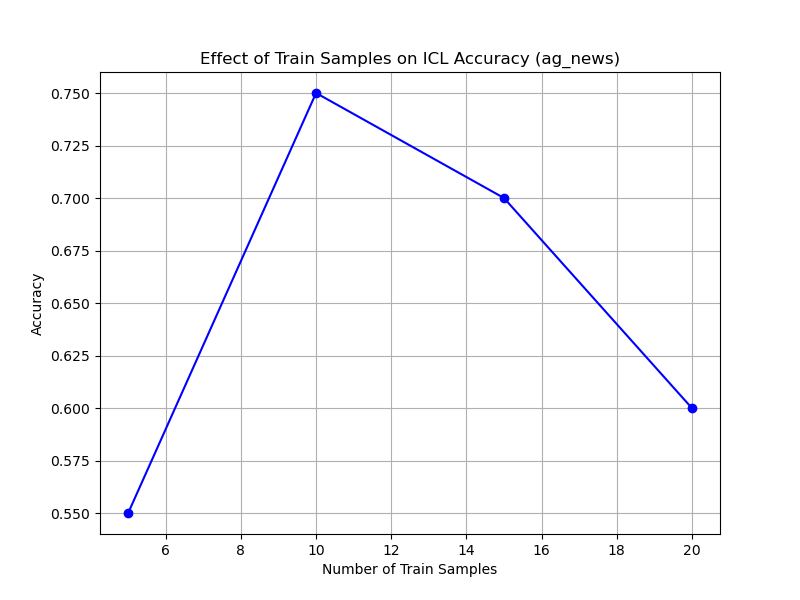
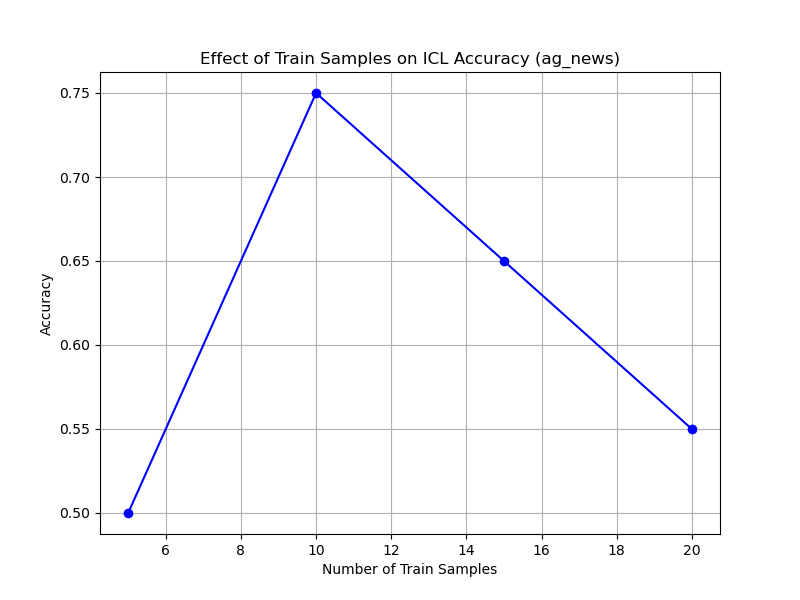
完成了功能：对比不同大模型对ICL准确率的影响

diff --git a/llm_size.py b/llm_size.py
@@ -1,0 +1,91 @@
+# 本模块用于实验不同大模型对ICL准确率的影响
+# 输出：results/icl_model_compare.csv 与 results/icl_model_compare.png
+
+import os
+import pandas as pd
+import matplotlib.pyplot as plt
+from pipeline.textdataloader import TextDataLoader
+from pipeline.contextual_learning import ContextualLearning
+from openai import OpenAI
+
+
+def main():
+    # model lists
+    model_names = [
+        'Qwen/Qwen2-1.5B-Instruct',
+        'Qwen/Qwen2-7B-Instruct',
+        'deepseek-chat'
+    ]
+
+    API_KEY = "sk-ganzjcgtiqzszibsfiqenqikpwgatojlsfvtmrcvvqnpbzzl"
+    ds_api = "sk-4ac41f95e3414ca78790f1af126c02e4"
+    client = OpenAI(api_key=API_KEY, base_url="https://api.siliconflow.cn/v1")
+    ds_client = OpenAI(api_key=ds_api, base_url="https://api.deepseek.com")
+
+    # 默认数据集
+    dataset_name = "ag_news"
+    print(f"======Running ICL comparison on dataset: {dataset_name}======")
+
+    data_loader = TextDataLoader(dataset_name, split_ratio=0.2, random_state=42)
+    X_train, X_test, y_train, y_test = data_loader.split_data()
+
+    print(f"Train data shape: {X_train.shape}")
+    print(f"Test data shape: {X_test.shape}")
+
+    model_list = []
+    accuracy_list = []
+
+    for model_name in model_names:
+        if model_name == 'deepseek-chat':
+            print(f"\nRunning ICL with model: {model_name}")
+            contextual_learning = ContextualLearning(
+                X_train, y_train, X_test, y_test,
+                client=ds_client,
+                model_name=model_name,
+                max_test_samples=20,
+                max_train_samples=20
+            )
+            icl_accuracy = contextual_learning.train()
+            print(f"Model: {model_name} | Accuracy: {icl_accuracy:.4f}")
+
+            model_list.append(model_name)
+            accuracy_list.append(icl_accuracy)
+        else:
+            print(f"\nRunning ICL with model: {model_name}")
+            contextual_learning = ContextualLearning(
+                X_train, y_train, X_test, y_test,
+                client=client,
+                model_name=model_name,
+                max_test_samples=20,
+                max_train_samples=20
+            )
+            icl_accuracy = contextual_learning.train()
+            print(f"Model: {model_name} | Accuracy: {icl_accuracy:.4f}")
+
+            model_list.append(model_name)
+            accuracy_list.append(icl_accuracy)
+
+    os.makedirs("results", exist_ok=True)
+    df = pd.DataFrame({
+        "Model": model_list,
+        "Accuracy": accuracy_list
+    })
+    df.to_csv("results/icl_model_compare.csv", index=False)
+    print("Saved results to results/icl_model_compare.csv")
+
+    plt.figure(figsize=(10, 6))
+    plt.bar(model_list, accuracy_list, color='skyblue')
+    plt.title(f'ICL Accuracy Comparison across LLMs ({dataset_name})')
+    plt.ylabel('Accuracy')
+    plt.xlabel('LLM Model')
+    plt.ylim(0, 1)
+    plt.grid(axis='y', linestyle='--', alpha=0.7)
+    plt.xticks(rotation=15)
+    plt.tight_layout()
+    plt.savefig("results/icl_model_compare.png")
+    plt.show()
+    print("Saved chart to results/icl_model_compare.png!")
+
+
+if __name__ == "__main__":
+    main()

diff --git a/prompt_length.py b/prompt_length.py
@@ -1,20 +1,25 @@
+# 本模块用于实验prompt长度（用于训练的样例数量）对ICL的准确率的影响
+# 运行后生成results/icl_prompt_effect.csv与results/icl_prompt_effect.png
+# Defalut configs:
+#   Runs on dataset 'ag_news'
+#   llm: DeepSeek
 import os
 import pandas as pd
-import matplotlib.pyplot as plt  # 新增
-from pipeline.dataloader import DataLoader
+import matplotlib.pyplot as plt  
 from pipeline.textdataloader import TextDataLoader
 from pipeline.client import APIClient
 from pipeline.contextual_learning import ContextualLearning
 
 def main():
     # load client
-    api_wrapper = APIClient(api_key="my_api")
+    api_wrapper = APIClient(api_key="sk-4ac41f95e3414ca78790f1af126c02e4")
     print("Loading llm...")
     client = api_wrapper.get_client()
     models = client.models.list()
     print("Model loaded successfully:\n", models)
     print("============================================")
 
+    # default dataset
     dataset_name = "ag_news"  
     print(f"=== Running on dataset: {dataset_name} ===")
 
@@ -26,11 +31,11 @@ def main():
     print("=========================================================")
     print("Start to run contextual learning...")
 
+    # 训练参数
     start_train_samples = 5
     max_train_samples = 20
     step = 5
 
-    # 保存结果的列表
     train_samples_list = []
     accuracy_list = []
 
@@ -39,17 +44,16 @@ def main():
         contextual_learning = ContextualLearning(
             X_train, y_train, X_test, y_test,
             client=client,
+            model_name='deepseek-chat',
             max_test_samples=20,  
             max_train_samples=train_samples
         )
         icl_accuracy = contextual_learning.train()
         print(f"Accuracy with {train_samples} training samples: {icl_accuracy:.4f}")
 
-        # 保存每次的结果
         train_samples_list.append(train_samples)
         accuracy_list.append(icl_accuracy)
 
-    # 保存为 CSV
     os.makedirs("results", exist_ok=True)
     results_df = pd.DataFrame({
         "Train_Samples": train_samples_list,
@@ -58,14 +62,13 @@ def main():
     results_df.to_csv("results/icl_prompt_effect.csv", index=False)
     print("Saved results to results/icl_prompt_effect.csv!")
 
-    # 画图
     plt.figure(figsize=(8, 6))
     plt.plot(train_samples_list, accuracy_list, marker='o', linestyle='-', color='b')
     plt.title(f'Effect of Train Samples on ICL Accuracy ({dataset_name})')
     plt.xlabel('Number of Train Samples')
     plt.ylabel('Accuracy')
     plt.grid(True)
-    plt.savefig("results/icl_prompt_effect.png")  # 保存图片
+    plt.savefig("results/icl_prompt_effect.png") 
     plt.show()
     print("Saved curve to results/icl_prompt_effect.png!")
 

diff --git a/ml_vs_icl.py b/ml_vs_icl.py
@@ -10,7 +10,7 @@ import pandas as pd
 def main():
     # load client
     # default: deepseek
-    api_wrapper = APIClient(api_key="my_api")
+    api_wrapper = APIClient(api_key="sk-4ac41f95e3414ca78790f1af126c02e4")
     print("Loading llm...")
     client = api_wrapper.get_client()
     models = client.models.list()
@@ -32,9 +32,9 @@ def main():
             X_train, X_test, y_train, y_test = data_loader.split_data()
             X_train_for_icl, X_test_for_icl = X_train, X_test
         else:
-            data_loader = TextDataLoader(dataset_name, split_ratio=0.2, random_state=42)
-            X_train_raw, X_test_raw, y_train, y_test = data_loader.split_data()
-            X_train, X_test = data_loader.vectorize(X_train_raw, X_test_raw)
+            text_data_loader = TextDataLoader(dataset_name, split_ratio=0.2, random_state=42)
+            X_train_raw, X_test_raw, y_train, y_test = text_data_loader.split_data()
+            X_train, X_test = text_data_loader.vectorize(X_train_raw, X_test_raw)
             X_train_for_icl, X_test_for_icl = X_train_raw, X_test_raw
 
         print(f"Train data shape: {X_train.shape}")
@@ -48,7 +48,7 @@ def main():
 
         # Start contextual learning
         print("Start to run contextual learning...")
-        contextual_learning = ContextualLearning(X_train_for_icl, y_train, X_test_for_icl, y_test, client=client)
+        contextual_learning = ContextualLearning(X_train_for_icl, y_train, X_test_for_icl, y_test, client=client, model_name='deepseek-chat')
         icl_accuracy = contextual_learning.train()
         print("=========================================================")
 

diff --git a/pipeline/contextual_learning.py b/pipeline/contextual_learning.py
@@ -1,18 +1,20 @@
-# contextual_learning.py
+# pipeline/contextual_learning.py
+
 import random
 import numpy as np
 from sklearn.metrics import accuracy_score
-from pipeline.client import OpenAI
 from tqdm import tqdm
 
 class ContextualLearning:
     def __init__(self, X_train, y_train, X_test, y_test, client=None, 
+                 model_name=None,
                  max_test_samples=20, max_train_samples=20):
         self.X_train = X_train
         self.y_train = y_train
         self.X_test = X_test
         self.y_test = y_test
         self.client = client 
+        self.model_name = model_name 
         self.max_test_samples = max_test_samples
         self.max_train_samples = max_train_samples
 
@@ -38,19 +40,16 @@ class ContextualLearning:
 
             max_tries = 5
             err_counter = 0
-            #print(prompt)
+
             while err_counter < max_tries:
                 try:
                     completion = self.client.chat.completions.create(
-                        model='deepseek-chat', 
+                        model=self.model_name,
                         messages=[{'role': 'user', 'content': prompt}],
                         temperature=0
                     )
                     response = completion.choices[0].message.content
                     pred = int(response.replace("#", ""))
-                    # print(pred)
-                    # print(self.y_test[n])
-
                     break
                 except Exception as e:
                     err_counter += 1

diff --git a/pipeline/dataloader.py b/pipeline/dataloader.py
@@ -2,9 +2,9 @@
 from sklearn.datasets import load_iris, load_digits, load_wine, load_breast_cancer
 
 class DataLoader:
-    def __init__(self, dataset_name="iris", test_size=0.2, random_state=42, stratify=True):
+    def __init__(self, dataset_name="iris", split_ratio=0.2, random_state=42, stratify=True):
         self.dataset_name = dataset_name
-        self.test_size = test_size
+        self.split_ratio = split_ratio
         self.random_state = random_state
         self.stratify = stratify
 
@@ -34,7 +34,7 @@ class DataLoader:
         stratify_param = self.y if self.stratify else None
         X_train, X_test, y_train, y_test = train_test_split(
             self.X, self.y,
-            test_size=self.test_size,
+            test_size=self.split_ratio,
             random_state=self.random_state,
             stratify=stratify_param
         )

diff --git a/pipeline/client.py b/pipeline/client.py
@@ -1,4 +1,4 @@
-# pipeline/client/client.py
+# pipeline/client.py
 from openai import OpenAI
 
 class APIClient:
